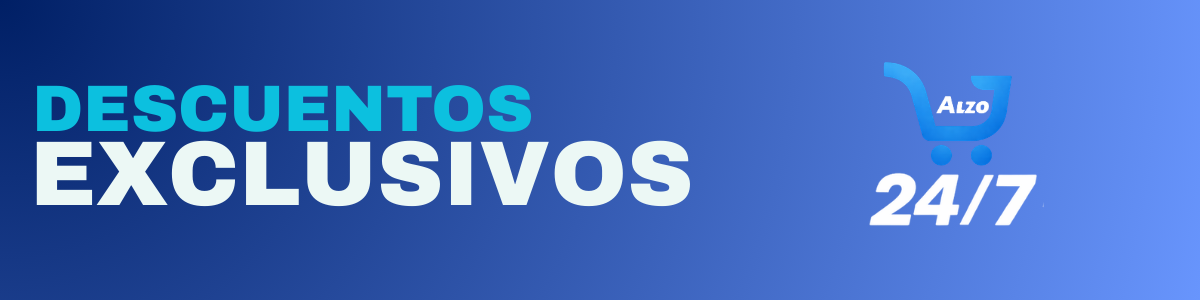
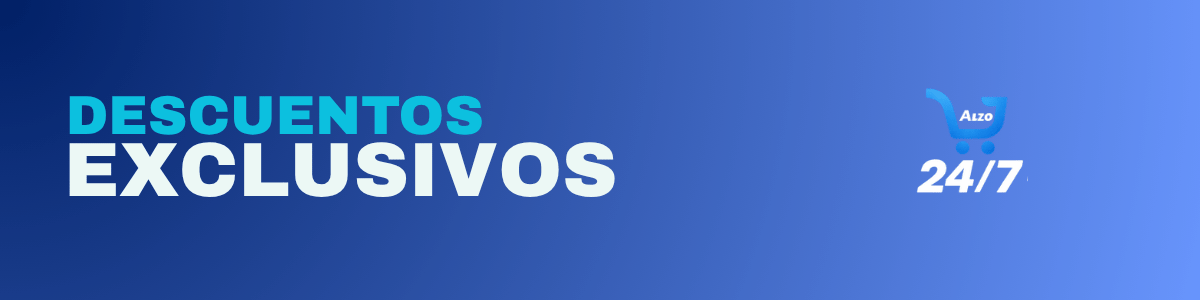
mejoras en primera vista

Changed region(s): [[0.0308, 0.27, 0.5858, 0.69], [0.7092, 0.21, 0.8633, 0.75]]

diff --git a/src/styles/247.css b/src/styles/247.css
@@ -248,8 +248,8 @@
 .home-section {
   background: #fff;
   border-radius: 0 32px 0 32px;
-  padding: 20px 20px 8px;
-  margin-bottom: 16px;
+  padding: 16px 20px 4px;
+  margin-bottom: 10px;
   box-shadow: 0 2px 8px rgba(0,0,0,0.06);
   overflow: hidden;
 }
@@ -261,7 +261,7 @@
 
 .home-section__banner-link {
   display: block;
-  margin: 0 -20px 14px -20px;
+  margin: 0 -20px 8px -20px;
 }
 
 .home-section__banner {
@@ -281,15 +281,15 @@
   justify-content: space-between;
   background: linear-gradient(120deg, #0d0a4a 0%, #1230a0 55%, #1a5fd4 100%);
   border-radius: 0 32px 0 32px;
-  padding: 18px 20px 18px 24px;
-  min-height: 80px;
+  padding: 12px 20px 12px 24px;
+  min-height: 60px;
   overflow: hidden;
   position: relative;
 }
 
 
 .home-section__css-banner__titulo {
-  font-size: 22px;
+  font-size: 18px;
   font-weight: 900;
   color: #fff;
   margin: 0;
@@ -301,11 +301,24 @@
 }
 
 .home-section__css-banner__logo {
-  height: 52px;
+  height: 40px;
   width: auto;
   object-fit: contain;
   flex-shrink: 0;
   filter: drop-shadow(0 2px 6px rgba(0,0,0,0.2));
+}
+
+@media (min-width: 768px) {
+  .home-section__css-banner {
+    min-height: 70px;
+    padding: 14px 24px;
+  }
+  .home-section__css-banner__titulo {
+    font-size: 22px;
+  }
+  .home-section__css-banner__logo {
+    height: 48px;
+  }
 }
 
 .home-canal-dif-banner {
@@ -366,10 +379,10 @@
   display: flex;
   gap: 12px;
   overflow-x: auto;
-  padding-top: 24px;
-  padding-bottom: 16px;
+  padding-top: 12px;
+  padding-bottom: 10px;
   scrollbar-width: none;
-  margin: -20px -4px 0;
+  margin: -12px -4px 0;
   padding-left: 4px;;
 }
 
@@ -4857,13 +4870,22 @@ body.modal-open {
   box-shadow: 0 12px 40px rgba(0,0,0,0.18);
 }
 
-/* Banners 24/7: los assets de secciones son 1200x300.
-   Mantener 4:1 evita el zoom/corte que se nota en mobile. */
+/* Banners 24/7: los assets de secciones son 1200x300 (4:1).
+   En home compactamos el banner para que entren productos en el primer fold:
+   - mobile: 6:1 (recorta arriba/abajo, prioriza productos visibles)
+   - desktop: 8:1 (el contenedor es ancho, sin esto el banner ocupa todo el fold) */
 .home-section__banner {
   width: 100%;
   height: auto;
-  aspect-ratio: 4 / 1;
-  object-fit: contain;
+  aspect-ratio: 6 / 1;
+  object-fit: cover;
+  object-position: center;
+}
+
+@media (min-width: 768px) {
+  .home-section__banner {
+    aspect-ratio: 8 / 1;
+  }
 }
 
 .home-canal-dif-banner img,